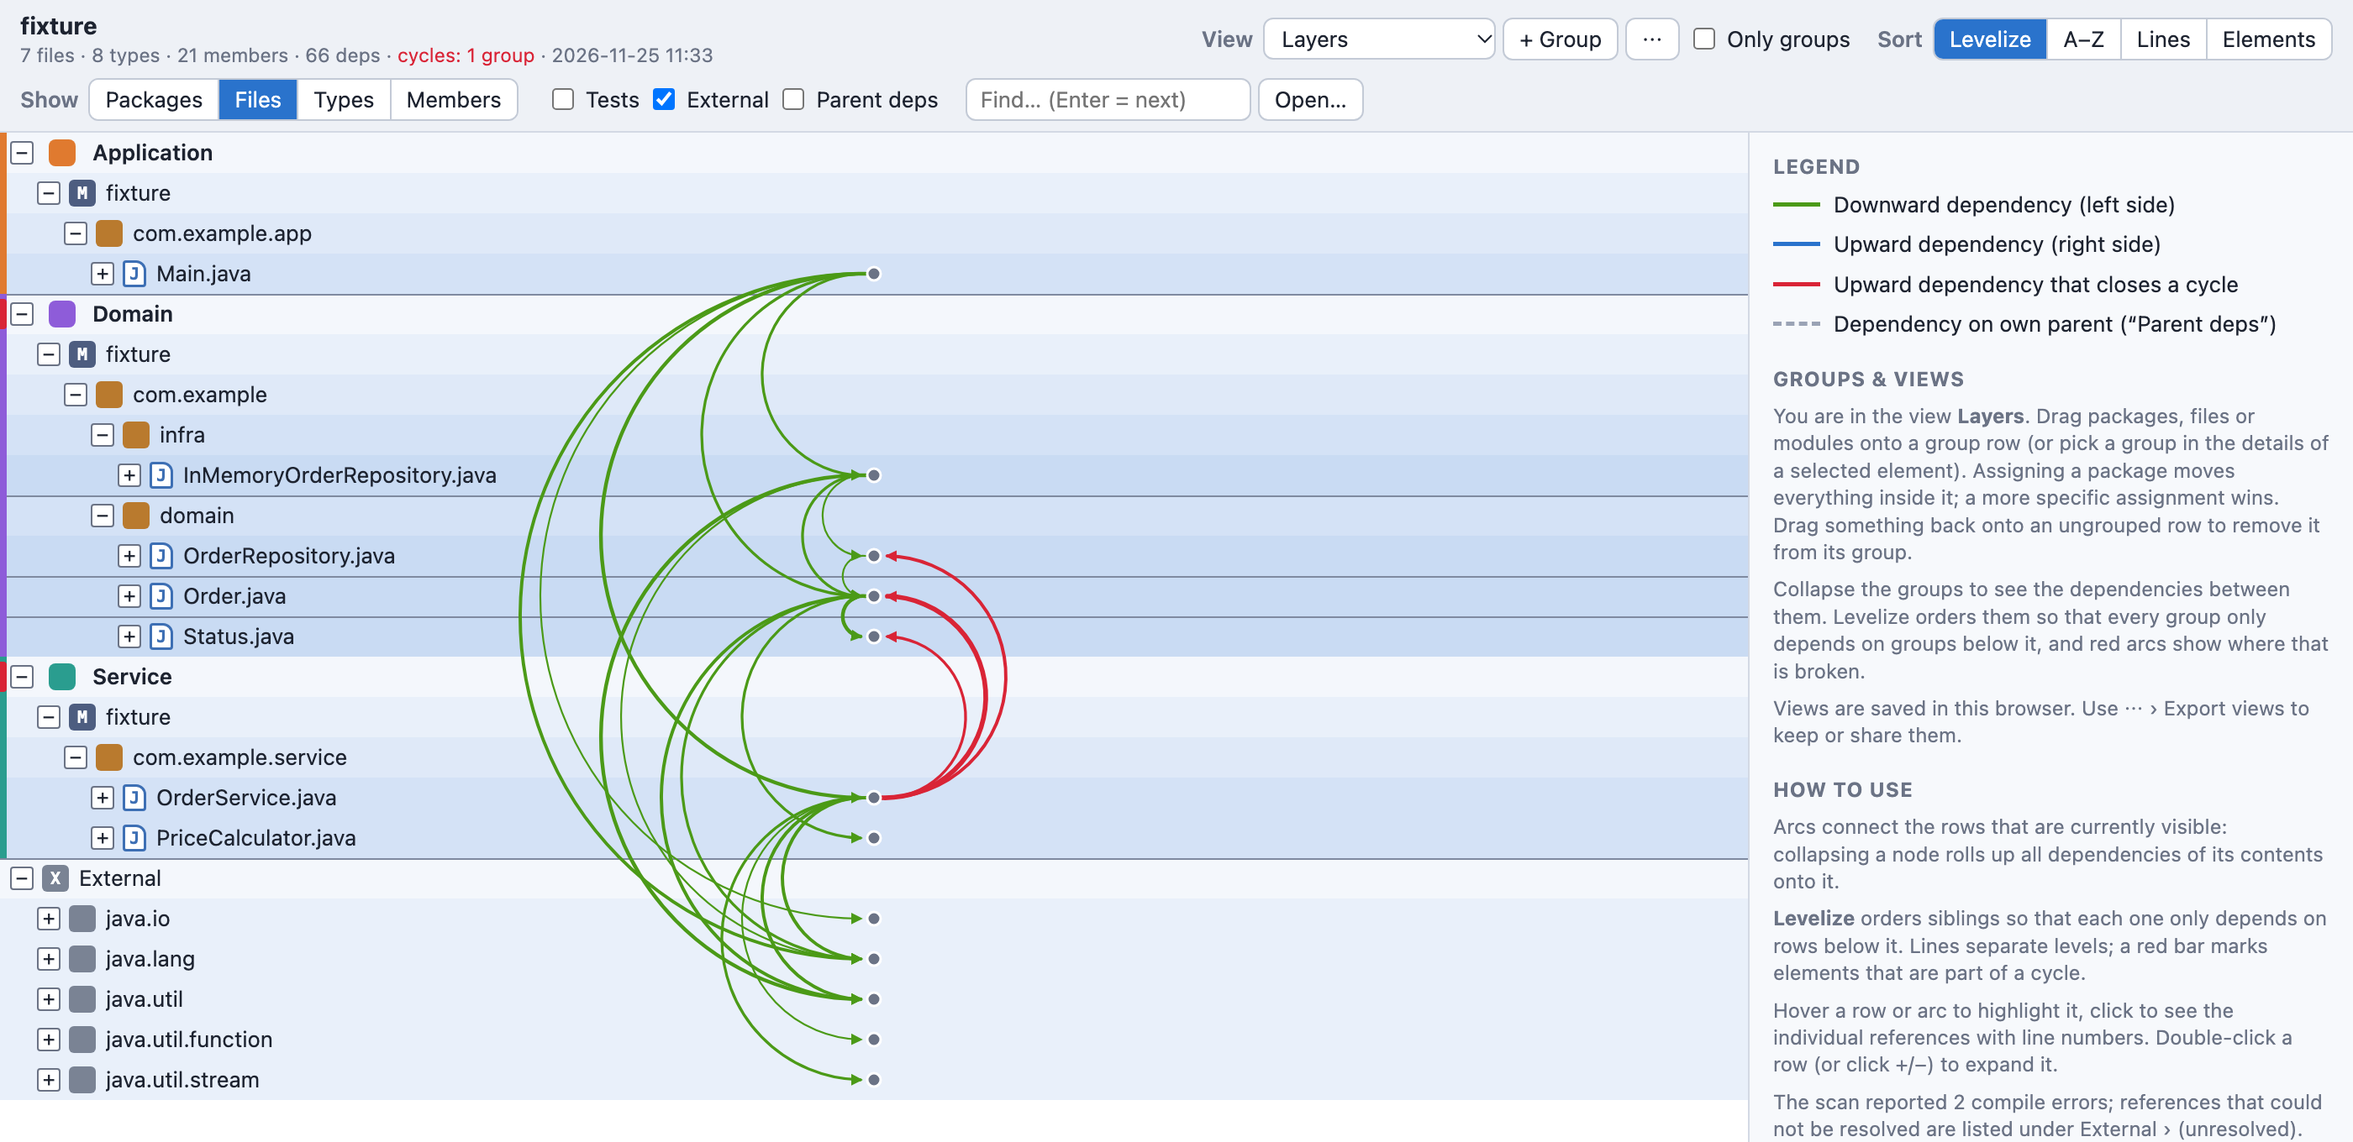
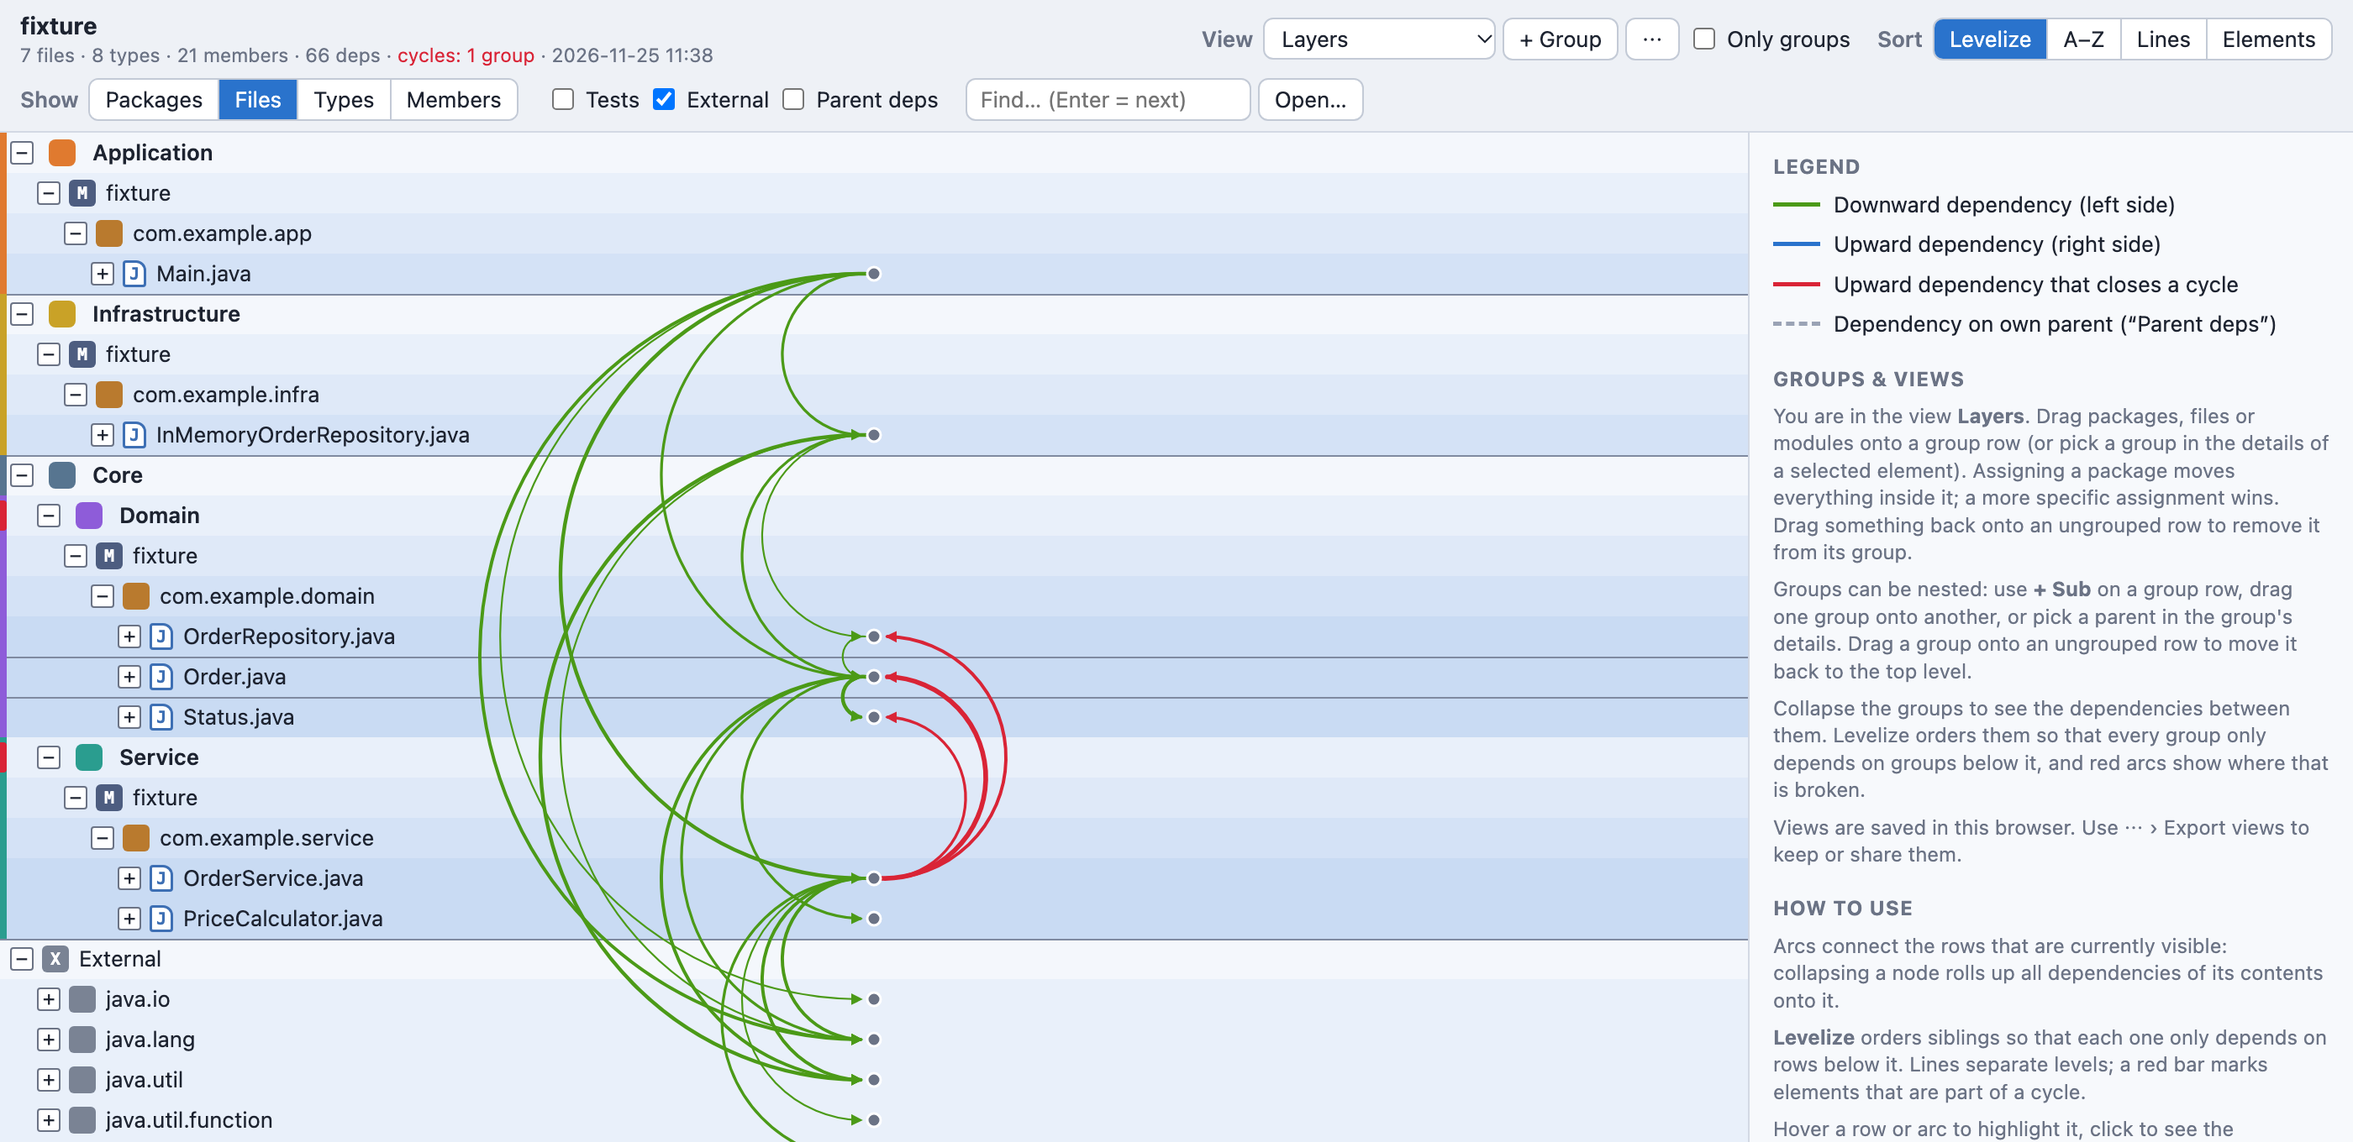
Support nested groups in views
Groups get an optional parent. Subgroups are created with "+ Sub" on a
group row, by dragging a group onto another, or via the Parent select
in a group's details; dropping a group onto an ungrouped row moves it
back to the top level. A group cannot be moved into its own subtree,
deleting a group moves its subgroups up one level, and broken parent
references in imported views fall back to top level. Group selects
show full paths. Groups stay above other siblings at every level.

The fixture view now nests Domain and Service under Core; the smoke
test checks the nesting and the screenshots show it.

Changed region(s): [[0.0, 0.2471, 0.9943, 1.0], [0.0311, 0.8956, 0.1243, 1.0], [0.0, 0.2471, 0.0932, 0.3088]]

diff --git a/viewer.html b/viewer.html
@@ -316,15 +316,16 @@ function newView(name) {
   return v;
 }
 
-function addGroup() {
+function addGroup(parentId) {
   if (!D) return;
   let v = curView();
   if (!v) v = newView('View ' + (V.views.length + 1));
-  const g = { id: uid(), name: 'Group ' + (v.groups.length + 1), color: COLORS[v.groups.length % COLORS.length] };
+  const g = { id: uid(), name: (parentId ? 'Subgroup ' : 'Group ') + (v.groups.length + 1), color: COLORS[v.groups.length % COLORS.length] };
+  if (parentId) { g.parent = parentId; st.expanded.add('G:' + parentId); }
   v.groups.push(g); saveViews();
   st.editing = 'G:' + g.id;
   build(); refresh();
-  view.scrollTop = 0;
+  if (!parentId) view.scrollTop = 0;
 }
 
 function renameGroup(gid, name) {
@@ -332,11 +333,39 @@ function renameGroup(gid, name) {
   if (g && name.trim()) { g.name = name.trim(); saveViews(); }
 }
 
+// Is group `id` the same as, or nested (at any depth) inside, group `ancestorId`?
+function inGroup(v, id, ancestorId) {
+  const seen = new Set();
+  for (let g = v.groups.find(x => x.id === id); g && !seen.has(g.id); g = v.groups.find(x => x.id === g.parent)) {
+    if (g.id === ancestorId) return true;
+    seen.add(g.id);
+  }
+  return false;
+}
+const groupPath = (v, g) => {
+  const names = [], seen = new Set();
+  for (let x = g; x && !seen.has(x.id); x = v.groups.find(y => y.id === x.parent)) { names.unshift(x.name); seen.add(x.id); }
+  return names.join(' › ');
+};
+
+function moveGroup(gid, parentId) {
+  const v = curView(), g = v && v.groups.find(x => x.id === gid);
+  if (!g || (parentId && inGroup(v, parentId, gid))) return; // not into itself or its own subgroups
+  if ((g.parent || null) === (parentId || null)) return;
+  if (parentId) { g.parent = parentId; st.expanded.add('G:' + parentId); } else delete g.parent;
+  saveViews(); build(); refresh();
+}
+
 function deleteGroup(gid) {
   const v = curView(); if (!v) return;
   const g = v.groups.find(x => x.id === gid);
   const n = Object.values(v.assign).filter(x => x === gid).length;
-  if (n && !confirm(`Delete group "${g.name}"? Its ${n} assignment(s) are removed; the elements go back to where they were.`)) return;
+  const subs = v.groups.filter(x => x.parent === gid);
+  const parts = [];
+  if (n) parts.push(`its ${n} assignment(s) are removed and the elements go back to where they were`);
+  if (subs.length) parts.push(`its ${subs.length} subgroup(s) move up one level`);
+  if (parts.length && !confirm(`Delete group "${g.name}"? ${parts.join('; ')}.`)) return;
+  for (const s of subs) { if (g.parent) s.parent = g.parent; else delete s.parent; }
   v.groups = v.groups.filter(x => x.id !== gid);
   for (const k of Object.keys(v.assign)) if (v.assign[k] === gid) delete v.assign[k];
   saveViews(); build(); refresh();
@@ -379,6 +408,14 @@ function build() {
   const mk = o => Object.assign({ children: [], parent: null, line: 0, loc0: 0, test0: false, path: '', v: '', st: false, clone: true }, o);
   const groups = v ? v.groups.map(g => mk({ key: 'G:' + g.id, n: g.name, k: 'group', q: g.name, gid: g.id, color: g.color, clone: false })) : [];
   const gById = new Map(groups.map(g => [g.gid, g]));
+  const topGroups = [];
+  for (const g of groups) {
+    const pid = v.groups.find(x => x.id === g.gid).parent;
+    // A missing parent or a parent loop (e.g. from a hand-edited import) puts the group at the top.
+    if (pid && gById.has(pid) && !inGroup(v, pid, g.gid)) gById.get(pid).children.push(g);
+    else topGroups.push(g);
+  }
+  for (const g of groups) for (const c of g.children) c.parent = g;
   const top = [], clones = new Map();
   for (const n of D.nodes) if (!CONTAINER.has(n.k)) { n.parent = n.op; n.children = n.oc.slice(); }
   const eff = n => {
@@ -397,7 +434,7 @@ function build() {
   };
   for (const u of D.nodes) if (UNIT.has(u.k)) { const p = container(u.op, eff(u)); u.parent = p; p.children.push(u); }
 
-  const roots = v && st.only ? groups : groups.concat(top);
+  const roots = v && st.only ? topGroups : topGroups.concat(top);
   const compact = n => {
     while (n.k === 'package' && n.children.length === 1 && n.children[0].k === 'package') {
       const c = n.children[0];
@@ -508,8 +545,8 @@ function analyze() {
     else if (st.sort === 'loc') kids.sort((a, b) => (b.loc - a.loc) || byName(a, b));
     else if (st.sort === 'elems') kids.sort((a, b) => (b.elems - a.elems) || byName(a, b));
     else kids.sort(byName);
-    // Groups stay on top (levelized among themselves), External at the bottom.
-    if (!parent) kids = kids.filter(c => c.k === 'group').concat(kids.filter(c => c.k !== 'group' && c.k !== 'ext-root'), kids.filter(c => c.k === 'ext-root'));
+    // Groups (and subgroups) stay above other siblings, levelized among themselves; External at the bottom.
+    kids =kids.filter(c => c.k === 'group').concat(kids.filter(c => c.k !== 'group' && c.k !== 'ext-root'), kids.filter(c => c.k === 'ext-root'));
     if (st.sort === 'levelize') for (let i = 1; i < kids.length; i++) kids[i].sep = kids[i].level !== kids[i - 1].level || (kids[i].k === 'group') !== (kids[i - 1].k === 'group');
     for (const c of kids) c.sorted = proc(c, c.children);
     return kids;
@@ -577,13 +614,13 @@ function rowHTML(n) {
   if (n.k === 'group') cls.push('grp');
   if (st.query && n.n.toLowerCase().includes(st.query)) cls.push('match');
   const open = st.expanded.has(n.key), has = n.sorted.length > 0;
-  const drag = curView() && assignTarget(n) ? ' draggable="true"' : '';
+  const drag = curView() && (assignTarget(n) || n.k === 'group') && st.editing !== n.key ? ' draggable="true"' : '';
   const style = `padding-left:${6 + n.depth * IND}px${n.group ? `;--gc:${esc(n.group.color)}` : ''}`;
   let body;
   if (n.k === 'group') {
     body = (st.editing === n.key ? `<input class="gname" value="${esc(n.n)}" spellcheck="false">` : `<span class="nm">${esc(n.n)}</span>`) +
       (n.children.length ? '' : `<span class="metric">empty — drag packages or files here</span>`) +
-      `<span class="gact"><button data-act="rename" title="Rename group">Rename</button><button data-act="delete" title="Delete group">Delete</button></span>`;
+      `<span class="gact"><button data-act="sub" title="Add a subgroup inside this group">+ Sub</button><button data-act="rename" title="Rename group">Rename</button><button data-act="delete" title="Delete group">Delete</button></span>`;
   } else {
     const metric = st.sort === 'loc' ? n.loc : st.sort === 'elems' ? n.elems : '';
     body = `<span class="nm${n.test ? ' test' : ''}${n.st ? ' stat' : ''}">${esc(n.n)}</span>` + (metric !== '' ? `<span class="metric">${metric}</span>` : '');
@@ -683,9 +720,16 @@ function groupSelect(n) {
   if (!v || !o) return '';
   let cur = null;
   for (let a = o; a; a = a.op) if (hasOwn(v.assign, a.okey)) { cur = v.assign[a.okey] || null; break; }
-  const opts = `<option value="">(none)</option>` + v.groups.map(g => `<option value="${esc(g.id)}"${g.id === cur ? ' selected' : ''}>${esc(g.name)}</option>`).join('');
   const what = o === n || (n.origins && n.origins.includes(o)) ? '' : ` <span class="sub">(${esc(o.n)})</span>`;
-  return `<span>Group</span><span><select data-assign="${esc(o.okey)}">${opts}</select>${what}</span>`;
+  return `<span>Group</span><span><select data-assign="${esc(o.okey)}">${groupOptions(v, cur)}</select>${what}</span>`;
+}
+
+// <option>s for all groups of a view as full paths ("Core › Domain"), optionally leaving out a subtree.
+function groupOptions(v, selected, exclude) {
+  return `<option value="">(none)</option>` + v.groups
+    .filter(g => !exclude || !inGroup(v, g.id, exclude))
+    .map(g => [groupPath(v, g), g]).sort((a, b) => a[0].localeCompare(b[0]))
+    .map(([p, g]) => `<option value="${esc(g.id)}"${g.id === selected ? ' selected' : ''}>${esc(p)}</option>`).join('');
 }
 
 function showPanel() {
@@ -707,6 +751,7 @@ function showPanel() {
       <i style="border-color:var(--nest);border-top-style:dashed"></i><span>Dependency on own parent (“Parent deps”)</span></div>
       <div class="help"><h3>Groups &amp; views</h3>
       ${v ? `<p>You are in the view <b>${esc(v.name)}</b>. Drag packages, files or modules onto a group row (or pick a group in the details of a selected element). Assigning a package moves everything inside it; a more specific assignment wins. Drag something back onto an ungrouped row to remove it from its group.</p>
+      <p>Groups can be nested: use <b>+ Sub</b> on a group row, drag one group onto another, or pick a parent in the group's details. Drag a group onto an ungrouped row to move it back to the top level.</p>
       <p>Collapse the groups to see the dependencies between them. Levelize orders them so that every group only depends on groups below it, and red arcs show where that is broken.</p>`
         : `<p>Click <b>+ Group</b> to create a view with an empty group, then drag packages or files onto it. Use several views to look at the code from different angles: layers, bounded contexts, patterns…</p>`}
       <p>Views are saved in this browser. Use ⋯ › Export views to keep or share them.</p>
@@ -733,9 +778,13 @@ function showPanel() {
       .sort((a, b) => origLabel(a).localeCompare(origLabel(b)));
     extra = `<h3>Assigned (${items.length})</h3>` + (items.length
       ? `<ul style="padding-left:0">${items.map(o => `<li data-o="${esc(o.okey)}"><button class="x" data-unassign="${esc(o.okey)}" title="Remove from group">✕</button>${icon(o)}${esc(origLabel(o))}</li>`).join('')}</ul>`
-      : `<p class="help">Nothing yet. Drag packages, files or modules onto the group row.</p>`);
+      : `<p class="help">Nothing directly. Drag packages, files or modules onto the group row${n.children.some(c => c.k === 'group') ? ', or into one of its subgroups' : ''}.</p>`);
   }
-  const gs = groupSelect(n);
+  let gs = groupSelect(n);
+  if (n.k === 'group') {
+    const v = curView(), g = v.groups.find(x => x.id === n.gid);
+    gs = `<span>Parent</span><span><select data-parent="${esc(n.gid)}">${groupOptions(v, g.parent || null, n.gid)}</select></span>`;
+  }
   pbody.innerHTML = `<h2>${icon(n)}${esc(n.n)}${n.cyc ? '<span class="badge">cycle</span>' : ''}</h2>` +
     (n.q !== n.n ? `<div class="sub">${esc(n.q)}</div>` : '') +
     `<div class="kv">${kv.map(([k, v]) => `<span>${k}</span><span>${esc(v)}</span>`).join('')}${gs}</div>` + extra +
@@ -789,6 +838,7 @@ rowsEl.addEventListener('click', ev => {
   const act = ev.target.dataset && ev.target.dataset.act;
   if (act === 'rename') { st.editing = n.key; draw(); return; }
   if (act === 'delete') return deleteGroup(n.gid);
+  if (act === 'sub') return addGroup(n.gid);
   if (ev.target.classList.contains('tog')) return toggle(n);
   select(n);
 });
@@ -808,32 +858,44 @@ rowsEl.addEventListener('focusout', ev => { if (ev.target.classList.contains('gn
 rowsEl.addEventListener('mousemove', ev => { const n = nodeAt(ev.target); if (n !== st.hover) { st.hover = n; focus(); } });
 rowsEl.addEventListener('mouseleave', () => { st.hover = null; focus(); });
 
-// Drag & drop assignment
-let dragKey = null, dropRow = null;
+// Drag & drop: elements onto a group assign them; a group onto another group nests it.
+// Dropping onto an ungrouped row ungroups the element / moves the group to the top level.
+let dragKey = null, dragGroup = null, dropRow = null;
 const setDrop = el => { if (dropRow === el) return; if (dropRow) dropRow.classList.remove('drop'); dropRow = el; if (el) el.classList.add('drop'); };
+const endDrag = () => { dragKey = dragGroup = null; setDrop(null); document.body.classList.remove('dragging'); };
 rowsEl.addEventListener('dragstart', ev => {
-  const n = nodeAt(ev.target), o = assignTarget(n);
-  if (!o || !curView()) { ev.preventDefault(); return; }
-  dragKey = o.okey;
-  ev.dataTransfer.setData('text/plain', origLabel(o));
+  const n = nodeAt(ev.target);
+  if (!curView() || !n) { ev.preventDefault(); return; }
+  if (n.k === 'group') { dragGroup = n.gid; ev.dataTransfer.setData('text/plain', n.n); }
+  else {
+    const o = assignTarget(n);
+    if (!o) { ev.preventDefault(); return; }
+    dragKey = o.okey;
+    ev.dataTransfer.setData('text/plain', origLabel(o));
+  }
   ev.dataTransfer.effectAllowed = 'move';
   document.body.classList.add('dragging');
 });
 rowsEl.addEventListener('dragover', ev => {
-  if (!dragKey) return;
-  ev.preventDefault();
+  if (!dragKey && !dragGroup) return;
   const n = nodeAt(ev.target);
-  setDrop(n && n.group ? rowsEl.children[n.group.row] : null);
+  const target = n && n.group;
+  if (dragGroup && target && inGroup(curView(), target.gid, dragGroup)) { setDrop(null); return; } // into itself: not allowed
+  ev.preventDefault();
+  setDrop(target ? rowsEl.children[target.row] : null);
   ev.dataTransfer.dropEffect = 'move';
 });
 rowsEl.addEventListener('drop', ev => {
-  if (!dragKey) return;
+  if (!dragKey && !dragGroup) return;
   ev.preventDefault(); ev.stopPropagation();
-  const n = nodeAt(ev.target), key = dragKey;
-  dragKey = null; setDrop(null); document.body.classList.remove('dragging');
-  if (n) assign(key, n.group ? n.group.gid : null);
+  const n = nodeAt(ev.target), key = dragKey, gid = dragGroup;
+  endDrag();
+  if (!n) return;
+  const target = n.group ? n.group.gid : null;
+  if (gid) moveGroup(gid, target);
+  else assign(key, target);
 });
-rowsEl.addEventListener('dragend', () => { dragKey = null; setDrop(null); document.body.classList.remove('dragging'); });
+rowsEl.addEventListener('dragend', endDrag);
 
 svg.addEventListener('mouseover', ev => { if (ev.target.classList.contains('hit')) { st.hoverArc = arcs[+ev.target.dataset.a]; focus(); } });
 svg.addEventListener('mouseout', ev => { if (ev.target.classList.contains('hit')) { st.hoverArc = null; focus(); } });
@@ -856,6 +918,7 @@ pbody.addEventListener('click', ev => {
 });
 pbody.addEventListener('change', ev => {
   if (ev.target.dataset.assign) assign(ev.target.dataset.assign, ev.target.value || null);
+  else if (ev.target.dataset.parent) moveGroup(ev.target.dataset.parent, ev.target.value || null);
 });
 document.addEventListener('keydown', ev => {
   if (ev.key === 'Escape' && !/INPUT|SELECT|TEXTAREA/.test(ev.target.tagName)) { st.sel = st.selArc = null; draw(); showPanel(); }

diff --git a/README.md b/README.md
@@ -13,8 +13,9 @@ the dependencies between them as arcs, levelized and with cycles highlighted.
   <img alt="depviewer showing a small example project in a user-defined Layers view: groups Application, Domain and Service with dependency arcs between files; red arcs mark the upward dependencies of a Domain/Service cycle" src="docs/screenshot-light.png">
 </picture>
 
-*The bundled example project in a "Layers" view: green arcs are downward dependencies; the red
-arcs show `Domain` depending back on `Service`, a cycle between the layers.*
+*The bundled example project in a "Layers" view with nested groups (`Core` contains `Domain` and
+`Service`): green arcs are downward dependencies; the red arcs show `Domain` depending back on
+`Service`, a cycle inside `Core`.*
 
 ```
 ./depviewer [-o deps.html] [--no-tests] [--cp <classpath>] <project-dir>...
@@ -44,7 +45,8 @@ That's a small example with a deliberate package cycle and a "Layers" view.
 - **Views & groups**: *+ Group* creates an empty group (and a view if none is selected). Drag
   modules, packages or files onto a group row — or pick the group in the details panel — to
   assign them; a package takes everything inside it, a more specific assignment wins, and dragging
-  onto an ungrouped row removes it again. Collapse groups to see (and levelize) the dependencies
+  onto an ungrouped row removes it again. Groups can be nested (*+ Sub* on a group row, or drag a
+  group onto another), e.g. layers containing components. Collapse groups to see (and levelize) the dependencies
   between them. Each view is an independent set of groups, so you can keep one for layers, one
   for bounded contexts, one for patterns…
   Views are stored in the browser (localStorage, per project title); *⋯ › Export views* saves them

diff --git a/AGENTS.md b/AGENTS.md
@@ -68,8 +68,10 @@ When you fix a scanner bug, add the case to the fixture and a check that fails w
   key: `R:<module>`, `P:<module>:<package>`, `F:<module>:<path>`, `X`, `XP:<package>`,
   `XT:<qualified type>`. Changing how these are built silently breaks everyone's saved views. If
   you must, add a migration in `loadViews()`.
-- Exported view format: `{ "current"?: id, "views": [ { id, name, groups: [{id, name, color}], assign: { key: groupId | "" } } ] }`;
-  `""` means "explicitly ungrouped" (overrides an assigned ancestor).
+- Exported view format: `{ "current"?: id, "views": [ { id, name, groups: [{id, name, color, parent?: groupId}], assign: { key: groupId | "" } } ] }`;
+  `""` means "explicitly ungrouped" (overrides an assigned ancestor). `parent` nests a group; a
+  missing parent or a parent loop (hand-edited files) must degrade to a top-level group, never hang
+  or crash — `inGroup()` guards the walks.
 - The two template markers must stay in `viewer.html` exactly once each (`check.sh` enforces it).
 - Everything inserted with `innerHTML` goes through `esc()`. Names come from scanned code and
   user input — never interpolate them raw. The scanner's `js()` escapes `<`, `>` and `&` so the
